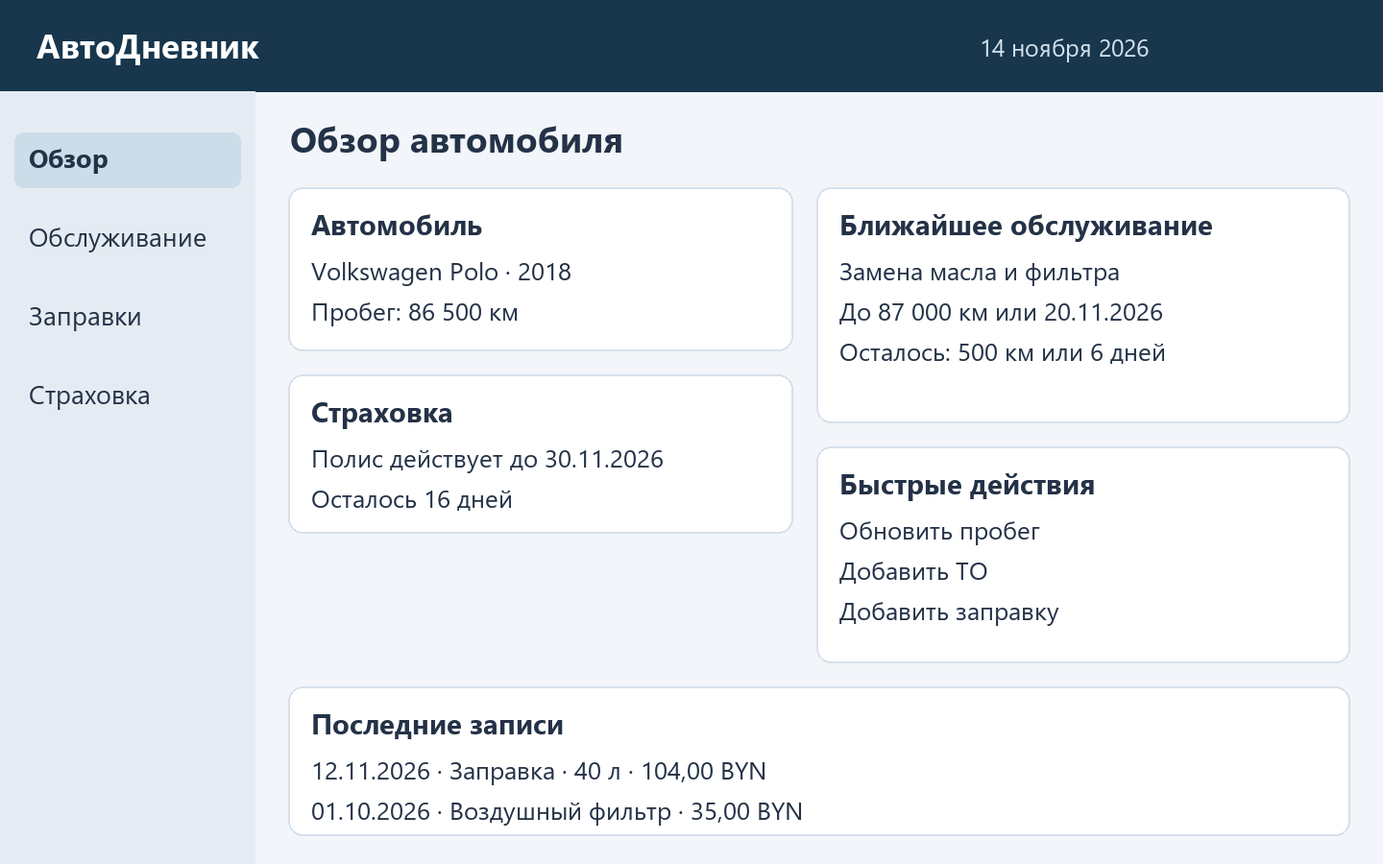
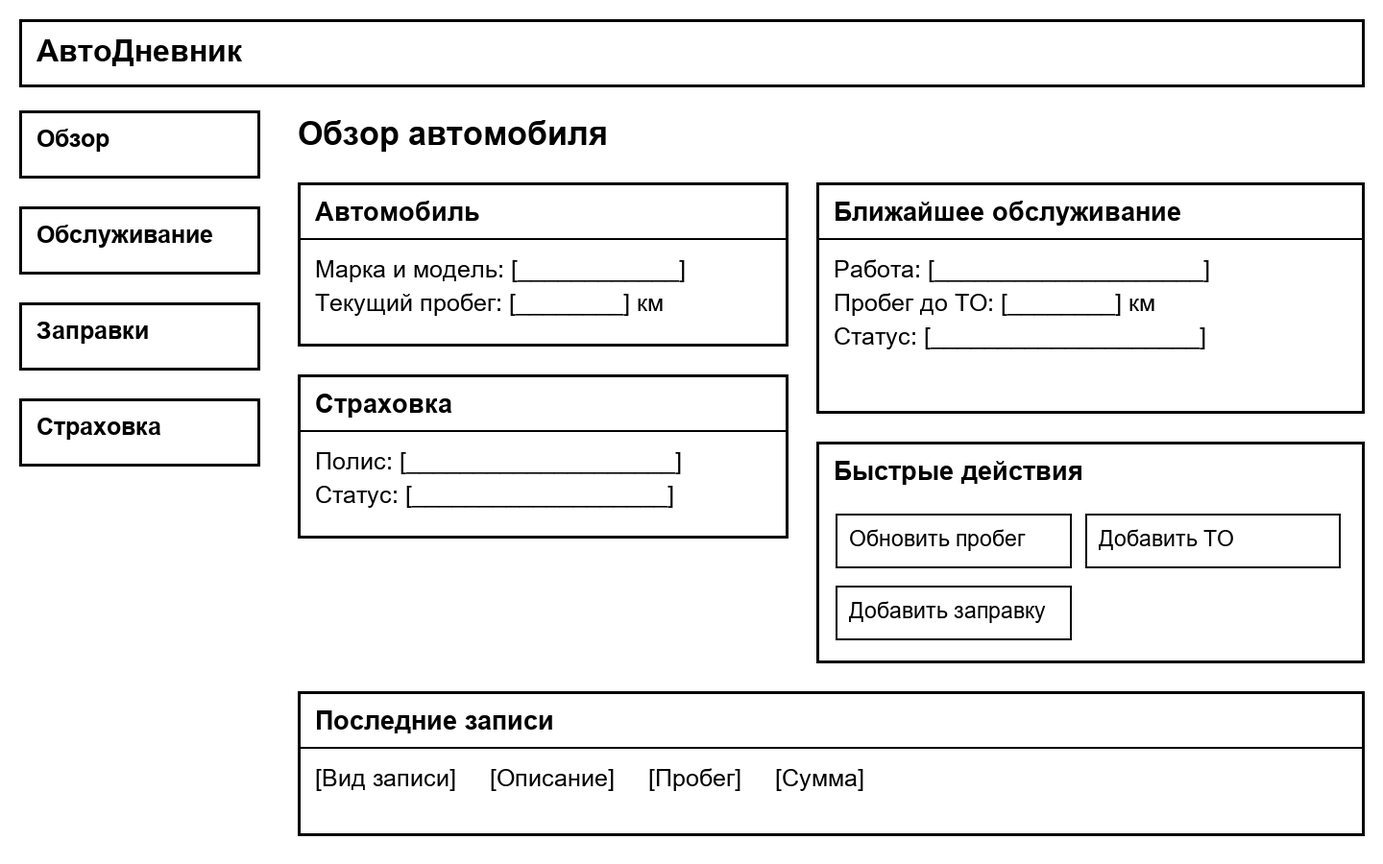
docs: simplify wireframes, add diagram arrows and five requirement categories

diff --git a/srs/srs.md b/srs/srs.md
@@ -118,22 +118,22 @@ Qt Widgets и Qt SQL с драйвером SQLite; файловый интерф
 
 ### 3.2 Функциональные требования
 
-Все REQ-FUNC-001–REQ-FUNC-010 имеют приоритет Must для первой версии.
+Все требования обязательны для первой версии.
 
-| ID | Функция | Требование |
-| --- | --- | --- |
-| REQ-FUNC-001 | Карточка автомобиля | Создание и изменение марки, модели, года выпуска и текущего пробега; привязка всех записей к выбранному автомобилю. |
-| REQ-FUNC-002 | Пробег | Ввод текущего пробега целым неотрицательным числом; проверка согласованности с историей событий. |
-| REQ-FUNC-003 | Техническое обслуживание | Добавление, просмотр, изменение и удаление записей ТО: дата, пробег, вид работ, стоимость и примечание. |
-| REQ-FUNC-004 | Масло и фильтры | Отдельные виды работ: замена масла, масляного, воздушного, салонного и топливного фильтров; возможность объединить работы в одну запись. |
-| REQ-FUNC-005 | План обслуживания | Задание следующей даты и/или пробега обслуживания; отображение остатка времени и километров. |
-| REQ-FUNC-006 | Заправки | Добавление, просмотр, изменение и удаление записей с датой, пробегом, видом топлива, объёмом, общей суммой и необязательным названием АЗС. |
-| REQ-FUNC-007 | История и расходы | Фильтрация заправок и ТО по периоду; сумма затрат отдельно по ТО, топливу и страховке; итоговый объём топлива за период. |
-| REQ-FUNC-008 | Страховка | Хранение вида полиса, номера, страховщика, даты начала и окончания, стоимости; сохранение истории полисов. |
-| REQ-FUNC-009 | Напоминания | Показ предстоящего и просроченного ТО и истекающих полисов при запуске, изменении данных и смене даты во время работы. |
-| REQ-FUNC-010 | Хранение данных | Сохранение записей локально; восстановление при повторном запуске; резервное копирование и восстановление базы с подтверждением замены. |
+| Идентификатор | Требование |
+|---|---|
+| REQ-FUNC-001 | Система должна создавать и изменять карточки автомобилей с маркой, моделью, годом выпуска и текущим пробегом. |
+| REQ-FUNC-002 | Система должна принимать целый неотрицательный пробег и проверять его согласованность с историей записей. |
+| REQ-FUNC-003 | Система должна добавлять, показывать, изменять и удалять записи ТО с датой, пробегом, работами и стоимостью. |
+| REQ-FUNC-004 | Система должна учитывать замену масла, масляного, воздушного, салонного и топливного фильтров. |
+| REQ-FUNC-005 | Система должна хранить следующий срок ТО по дате и/или пробегу и вычислять остаток до каждого заданного предела. |
+| REQ-FUNC-006 | Система должна вести историю заправок с датой, пробегом, видом топлива, объёмом и суммой. |
+| REQ-FUNC-007 | Система должна фильтровать записи по периоду и рассчитывать расходы на ТО, топливо и страховку, а также объём топлива. |
+| REQ-FUNC-008 | Система должна хранить историю полисов с видом, номером, страховщиком, периодом действия и стоимостью. |
+| REQ-FUNC-009 | Система должна пересчитывать напоминания при запуске, изменении записей и смене даты во время работы. |
+| REQ-FUNC-010 | Система должна сохранять данные между запусками, создавать резервную копию и восстанавливать её после подтверждения. |
 
-Система должна выполнять каждую функцию таблицы с соблюдением следующих правил:
+#### Правила предметной области
 
 | ID | Правило | Условие |
 | --- | --- | --- |
@@ -154,37 +154,56 @@ Qt Widgets и Qt SQL с драйвером SQLite; файловый интерф
 
 Действия удаления автомобиля требуют предупреждения об удалении связанных данных и отдельного подтверждения; удаление выполняется одной транзакцией. Экспорт копии использует согласованный снимок SQLite. Импорт проверяет формат, версию схемы и целостность; перед заменой сохраняется копия текущей базы.
 
-### 3.3 Качество обслуживания
 
-| ID | Качество | Проверяемое требование |
-| --- | --- | --- |
-| REQ-QUAL-001 | Быстродействие | На Windows 10/11 x64, CPU от 2 ядер, ОЗУ 8 ГБ, SSD, при 10 000 записях: запуск ≤ 3 с; открытие истории, фильтрация и сохранение ≤ 1 с в 95 из 100 повторов. |
-| REQ-QUAL-002 | Надёжность | Сохранение операции выполняется транзакционно. При прерывании операции после повторного запуска присутствует либо вся новая запись, либо прежнее состояние; частичной записи нет. |
-| REQ-QUAL-003 | Локальность | Все основные действия доступны без Интернета. Данные не передаются внешним сервисам; доступ к файлу ограничивается учётной записью ОС. Отдельное шифрование базы в MVP не входит. |
-| REQ-QUAL-004 | Удобство | Русский интерфейс; обязательные поля отмечены; сообщение об ошибке называет поле и способ исправления; отмена формы не меняет сохранённые данные. |
-| REQ-QUAL-005 | Восстановление | Восстановленная резервная копия содержит то же число автомобилей, ТО, заправок и полисов и те же значения полей. Повреждённая копия отклоняется без замены рабочей базы. |
 
-### 3.4 Соответствие стандартам
+### 3.3 Нефункциональные требования
 
-Структура SRS следует учебному шаблону репозитория. Требования имеют уникальные идентификаторы и способы проверки. Структурные модели интерфейса представлены в текстовой нотации SysML v2. Соответствие будущей реализации проверяется отдельно; наличие документа не означает сертификацию продукта.
+Все требования обязательны для первой версии.
 
-### 3.5 Проектирование и реализация
+| Идентификатор | Требование |
+|---|---|
+| REQ-NFR-001 | На Windows 10/11 x64 с двухъядерным процессором, 8 ГБ ОЗУ и SSD при 10 000 записях система должна запускаться не более чем за 3 с, открывать историю и сохранять запись не более чем за 1 с в 95 из 100 повторов. |
+| REQ-NFR-002 | Система должна сохранять каждую операцию транзакционно: после сбоя допускается только прежнее или полностью новое состояние. |
+| REQ-NFR-003 | Система должна выполнять все основные функции без подключения к Интернету. |
+| REQ-NFR-004 | Система должна предоставлять русский интерфейс, выделять обязательные поля и указывать причину ошибки; отмена формы не должна изменять данные. |
 
-#### 3.5.1 Установка
 
-Поставляется настольное приложение для Windows x64 с необходимыми библиотеками Qt и драйвером SQLite. База хранится в каталоге данных пользователя.
 
-#### 3.5.2 Сборка и поставка
+### 3.4 Требования безопасности
 
-Код должен собираться компилятором с поддержкой C++17 через CMake. Документация и модели версионируются в Git; изменения рассматриваются через pull request.
+Все требования обязательны для первой версии.
 
-#### 3.5.3 Сопровождаемость
+| Идентификатор | Требование |
+|---|---|
+| REQ-SEC-001 | Система должна хранить базу в каталоге данных текущего пользователя ОС и не передавать её содержимое внешним сервисам. Отдельное шифрование базы в MVP не предусматривается. |
+| REQ-SEC-002 | Система должна проверять типы, диапазоны и обязательность полей до сохранения и передавать значения в SQLite через параметризованные запросы. |
+| REQ-SEC-003 | Система должна требовать подтверждения удаления записей и замены базы, проверять формат, версию и целостность резервной копии и сохранять рабочую базу при отказе проверки. |
 
-Интерфейс, правила расчёта сроков и доступ к данным должны быть разделены. Правила дат, пробега, денежных сумм и восстановления подлежат автоматизированной проверке.
 
-### 3.6 ИИ/МО
 
-Не применяется. Напоминания и расчёты выполняются по детерминированным правилам раздела 3.2.
+### 3.5 Требования расширяемости
+
+Все требования обязательны для первой версии.
+
+| Идентификатор | Требование |
+|---|---|
+| REQ-EXT-001 | Система должна хранить виды работ ТО в справочнике: добавление вида работы не должно требовать изменения схемы таблиц истории. |
+| REQ-EXT-002 | Система должна разделять интерфейс, правила обслуживания и доступ к данным; расчёт статуса ТО должен проверяться отдельно без запуска GUI. |
+| REQ-EXT-003 | Система должна хранить версию схемы базы и выполнять миграцию с предыдущей поддерживаемой версии с сохранением записей и предварительной резервной копией. |
+
+
+
+### 3.6 Требования развёртывания
+
+Все требования обязательны для первой версии.
+
+| Идентификатор | Требование |
+|---|---|
+| REQ-DEP-001 | Система должна поставляться для Windows 10/11 x64 вместе с необходимыми библиотеками Qt и драйвером SQLite и запускаться на компьютере без среды разработки. |
+| REQ-DEP-002 | Система должна собираться из исходников C++17 с помощью CMake по документированным командам настройки, сборки и установки. |
+| REQ-DEP-003 | Система должна создавать базу при первом запуске в каталоге данных пользователя и сохранять пользовательские записи при обновлении приложения. |
+
+
 
 <a id="verification"></a>
 ## 4. Верификация
@@ -202,21 +221,27 @@ Qt Widgets и Qt SQL с драйвером SQLite; файловый интерф
 | AC-05 | REQ-FUNC-008, REQ-FUNC-009 | Полис заканчивается 30.11.2026; проверить даты 14.11, 30.11 и 01.12. | Соответственно: «Скоро истекает», «Истекает сегодня», «Истёк». |
 | AC-06 | REQ-FUNC-002, REQ-FUNC-003, REQ-FUNC-006 | Ввести −1 л, 31.11.2026 или исторический пробег выше следующей записи. | Сохранение блокируется; данные в базе не меняются; показана причина. |
 | AC-07 | REQ-FUNC-010 | Создать копию; добавить запись; восстановить копию. Затем попробовать повреждённый файл. | При подтверждении восстанавливается состояние копии; повреждённый файл не меняет базу. |
-
 | Бизнес цель | Функции | Проверки |
 | --- | --- | --- |
 | BG-01 | REQ-FUNC-002–REQ-FUNC-005, REQ-FUNC-009 | AC-02, AC-03, AC-06 |
 | BG-02 | REQ-FUNC-001, REQ-FUNC-003, REQ-FUNC-004, REQ-FUNC-006, REQ-FUNC-008, REQ-FUNC-010 | AC-01, AC-02, AC-04, AC-05, AC-07 |
 | BG-03 | REQ-FUNC-003, REQ-FUNC-006–REQ-FUNC-008 | AC-02, AC-04 |
 | BG-04 | REQ-FUNC-008, REQ-FUNC-009 | AC-05 |
-
 | Требование | Метод | Проверка | Статус |
 |---|---|---|---|
-| REQ-QUAL-001 | Test | 100 повторов запуска и операций на 10 000 записей; сравнить время с пределами | Planned |
-| REQ-QUAL-002 | Test | Прервать сохранение и проверить отсутствие частичной записи | Planned |
-| REQ-QUAL-003 | Inspection, Test | Выполнить основные операции без сети, проверить отсутствие сетевых запросов | Planned |
-| REQ-QUAL-004 | Inspection, Test | Проверить язык, обязательные поля, ошибки и отмену без сохранения | Planned |
-| REQ-QUAL-005 | Test | Сравнить записи после восстановления; отклонить повреждённый файл | Planned |
+| REQ-NFR-001 | Test | Замерить 100 запусков и операций на 10 000 записей. | Planned |
+| REQ-NFR-002 | Test | Прервать сохранение; проверить целостность состояния. | Planned |
+| REQ-NFR-003 | Test | Отключить сеть и выполнить основные операции. | Planned |
+| REQ-NFR-004 | Inspection, Test | Проверить язык, ошибки обязательных полей и отмену формы. | Planned |
+| REQ-SEC-001 | Inspection, Test | Проверить путь базы, ограничения доступа ОС и отсутствие исходящих запросов. | Planned |
+| REQ-SEC-002 | Inspection, Test | Проверить параметризацию SQL; ввести отрицательный объём и SQL-строку в поле названия. | Planned |
+| REQ-SEC-003 | Test | Отменить удаление; импортировать повреждённую копию; убедиться, что база не изменена. | Planned |
+| REQ-EXT-001 | Test | Добавить вид ТО в справочник и создать запись без изменения схемы истории. | Planned |
+| REQ-EXT-002 | Inspection, Test | Проверить разделение модулей и запустить проверку расчёта ТО без GUI. | Planned |
+| REQ-EXT-003 | Test | Мигрировать базу предыдущей версии; сравнить записи и наличие резервной копии. | Planned |
+| REQ-DEP-001 | Test | Установить и запустить пакет на чистой Windows 10/11 x64 без Qt SDK. | Planned |
+| REQ-DEP-002 | Test | Выполнить команды README в чистой среде с C++17, Qt и CMake. | Planned |
+| REQ-DEP-003 | Test | Проверить первый запуск и обновление при наличии ранее сохранённых данных. | Planned |
 
 ### Сценарии использования
 
@@ -253,7 +278,7 @@ Qt Widgets и Qt SQL с драйвером SQLite; файловый интерф
 
 ### Визуальные мокапы интерфейса
 
-Мокапы показывают проектируемые экраны с демонстрационными данными.
+Мокапы показывают компоновку экранов в виде чёрно-белых прямоугольных блоков. Значения полей обозначены заполнителями; календарные даты не выводятся. Полный состав полей определяется требованиями раздела 3.
 
 ![Обзор автомобиля](diagrams/mockups/dashboard-mockup.png)
 
